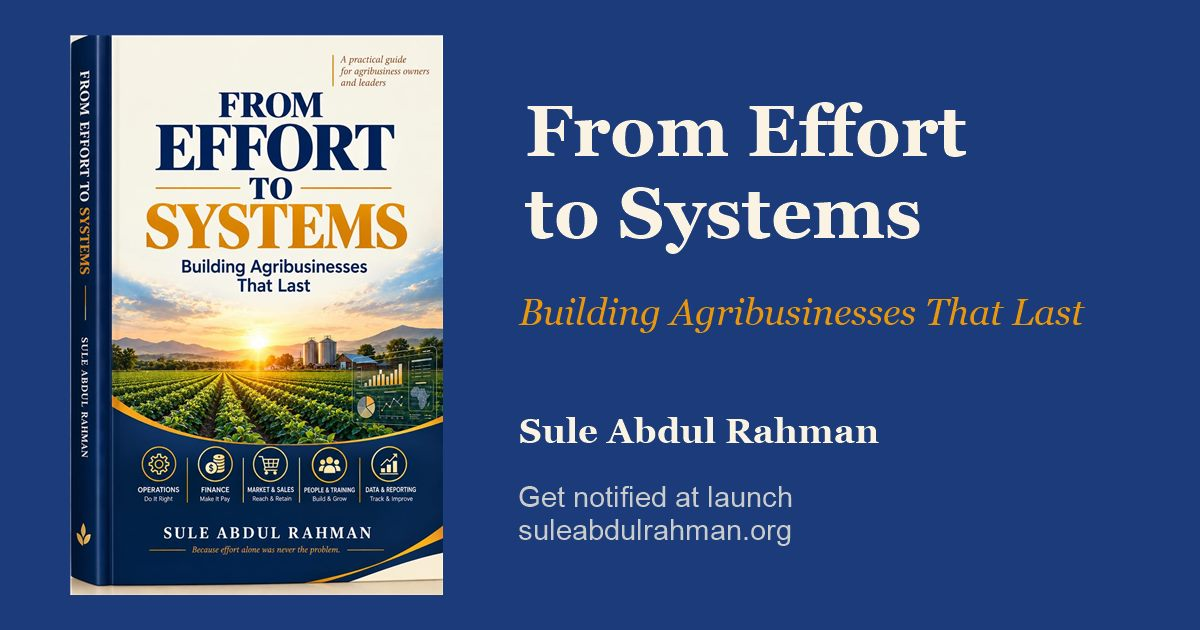
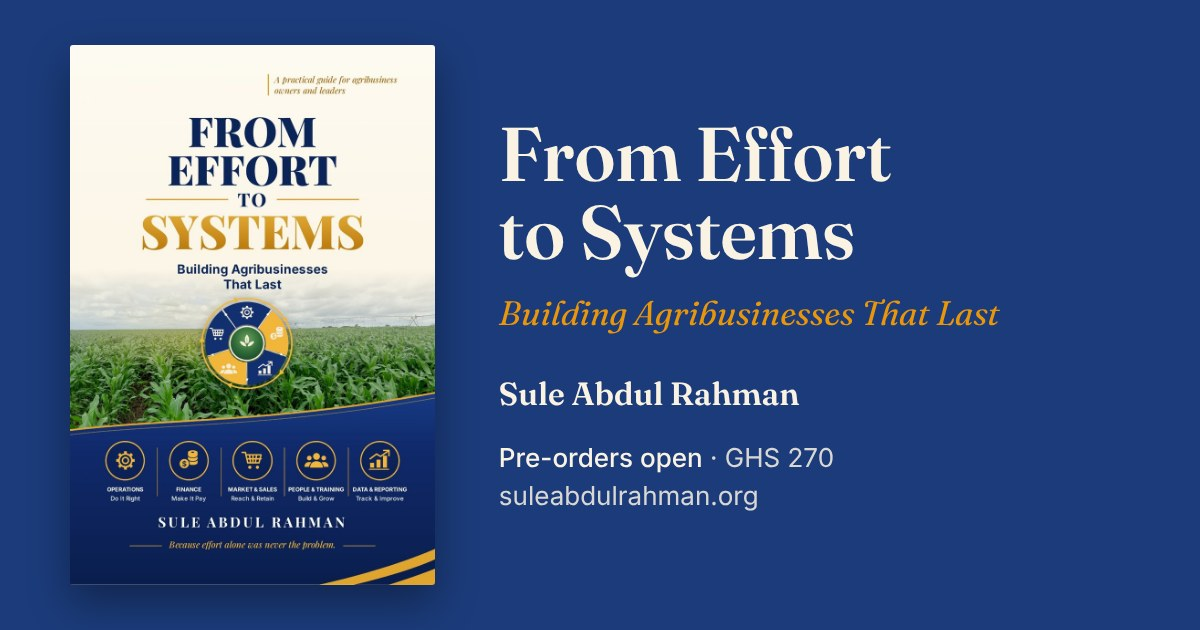
Replace the book cover with the final cover design (#4)
Updates the cover image and the link-preview image, and busts caches
so browsers and social apps fetch the new versions.

Claude-Session: https://claude.ai/code/session_01MVFcWJVfgUHbFRDW3x1Dkw

diff --git a/index.html b/index.html
@@ -18,7 +18,7 @@
 <meta property="og:description" content="A book by Sule Abdul Rahman for cooperative leaders, agripreneurs and agribusiness students: why hard work so often fails to compound, and what to build instead.">
 <meta property="og:url" content="https://suleabdulrahman.org/">
 <meta property="og:locale" content="en_US">
-<meta property="og:image" content="https://suleabdulrahman.org/assets/share.jpg">
+<meta property="og:image" content="https://suleabdulrahman.org/assets/share.jpg?v=2">
 <meta property="og:image:type" content="image/jpeg">
 <meta property="og:image:width" content="1200">
 <meta property="og:image:height" content="630">
@@ -27,7 +27,7 @@
 <meta name="twitter:card" content="summary_large_image">
 <meta name="twitter:title" content="From Effort to Systems — Building Agribusinesses That Last">
 <meta name="twitter:description" content="A book by Sule Abdul Rahman for cooperative leaders, agripreneurs and agribusiness students: why hard work so often fails to compound, and what to build instead.">
-<meta name="twitter:image" content="https://suleabdulrahman.org/assets/share.jpg">
+<meta name="twitter:image" content="https://suleabdulrahman.org/assets/share.jpg?v=2">
 <meta name="twitter:image:alt" content="Cover of the book From Effort to Systems by Sule Abdul Rahman">
 
 <script type="application/ld+json">
@@ -70,7 +70,7 @@
 <link rel="preconnect" href="https://fonts.googleapis.com">
 <link rel="preconnect" href="https://fonts.gstatic.com" crossorigin>
 <link href="https://fonts.googleapis.com/css2?family=Fraunces:ital,opsz,wght@0,9..144,300;0,9..144,500;0,9..144,600;1,9..144,400;1,9..144,500&family=Inter:wght@400;500;600&display=swap" rel="stylesheet">
-<link rel="preload" as="image" href="assets/cover.jpg">
+<link rel="preload" as="image" href="assets/cover.jpg?v=2">
 <style>
   :root{
     --ink:#1B3B7A;
@@ -409,7 +409,7 @@
 
     <div class="cover-wrap">
       <figure>
-        <img src="assets/cover.jpg" width="800" height="1200" fetchpriority="high"
+        <img src="assets/cover.jpg?v=2" width="800" height="1184" fetchpriority="high"
              alt="Cover of the book From Effort to Systems: Building Agribusinesses That Last, by Sule Abdul Rahman">
         <figcaption>Effort scatters. Systems connect.</figcaption>
       </figure>
